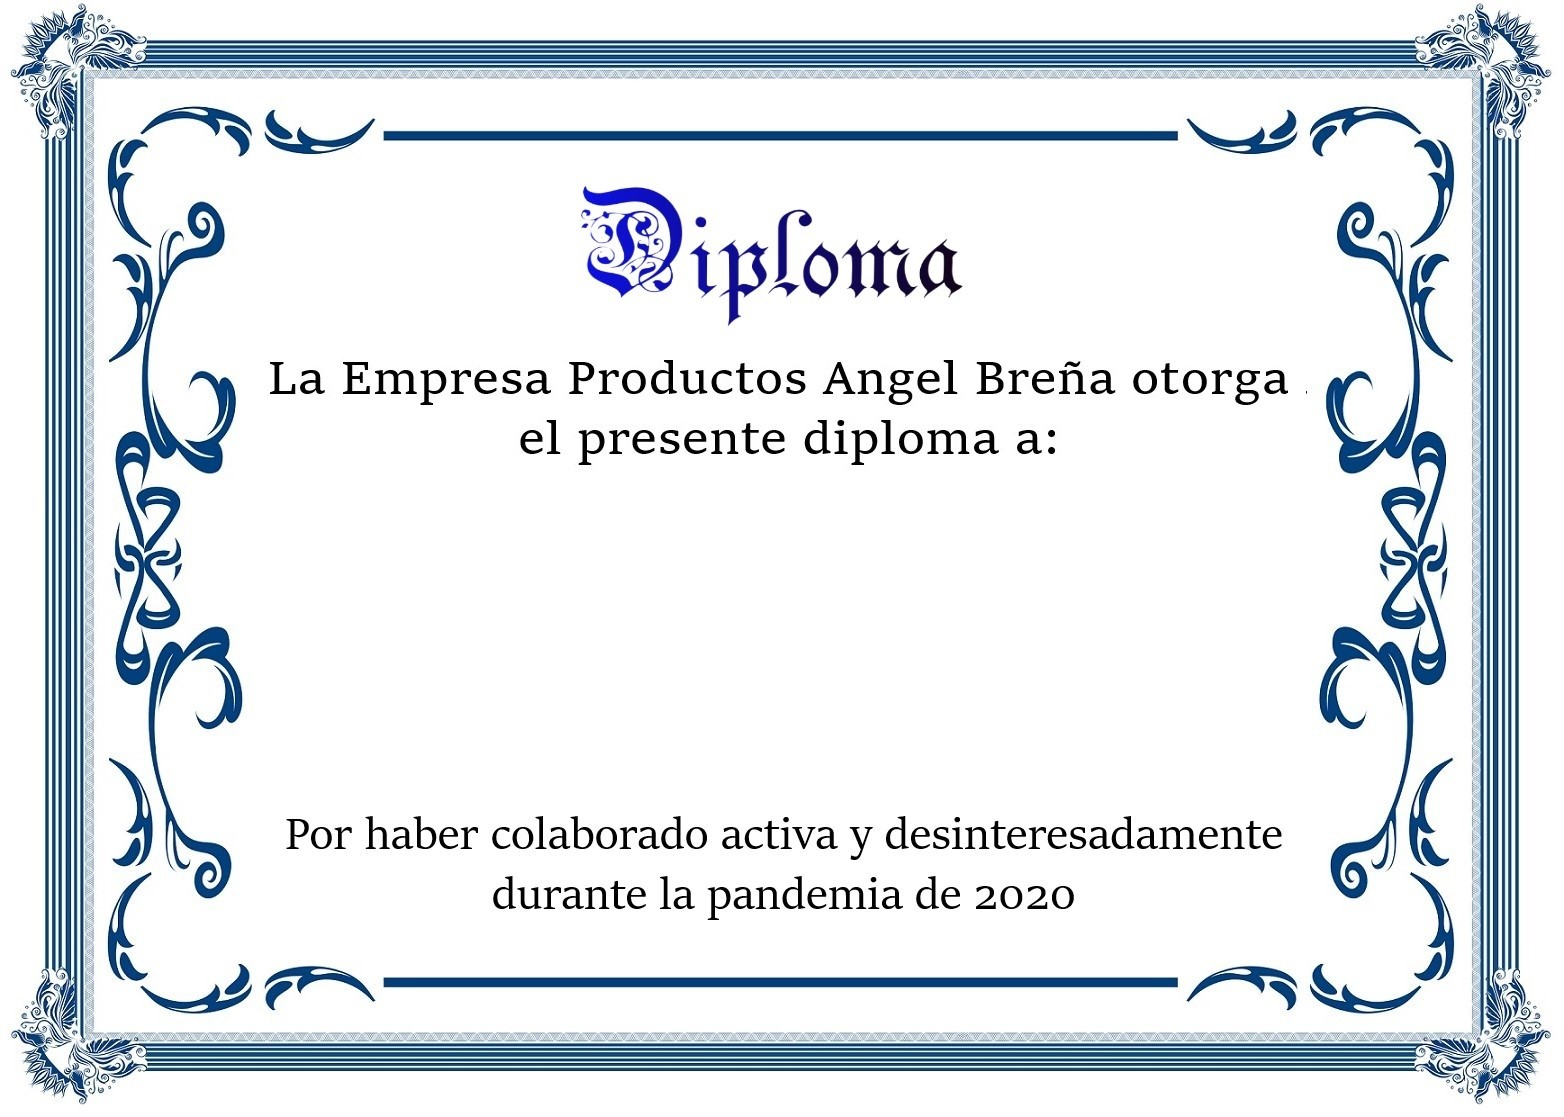
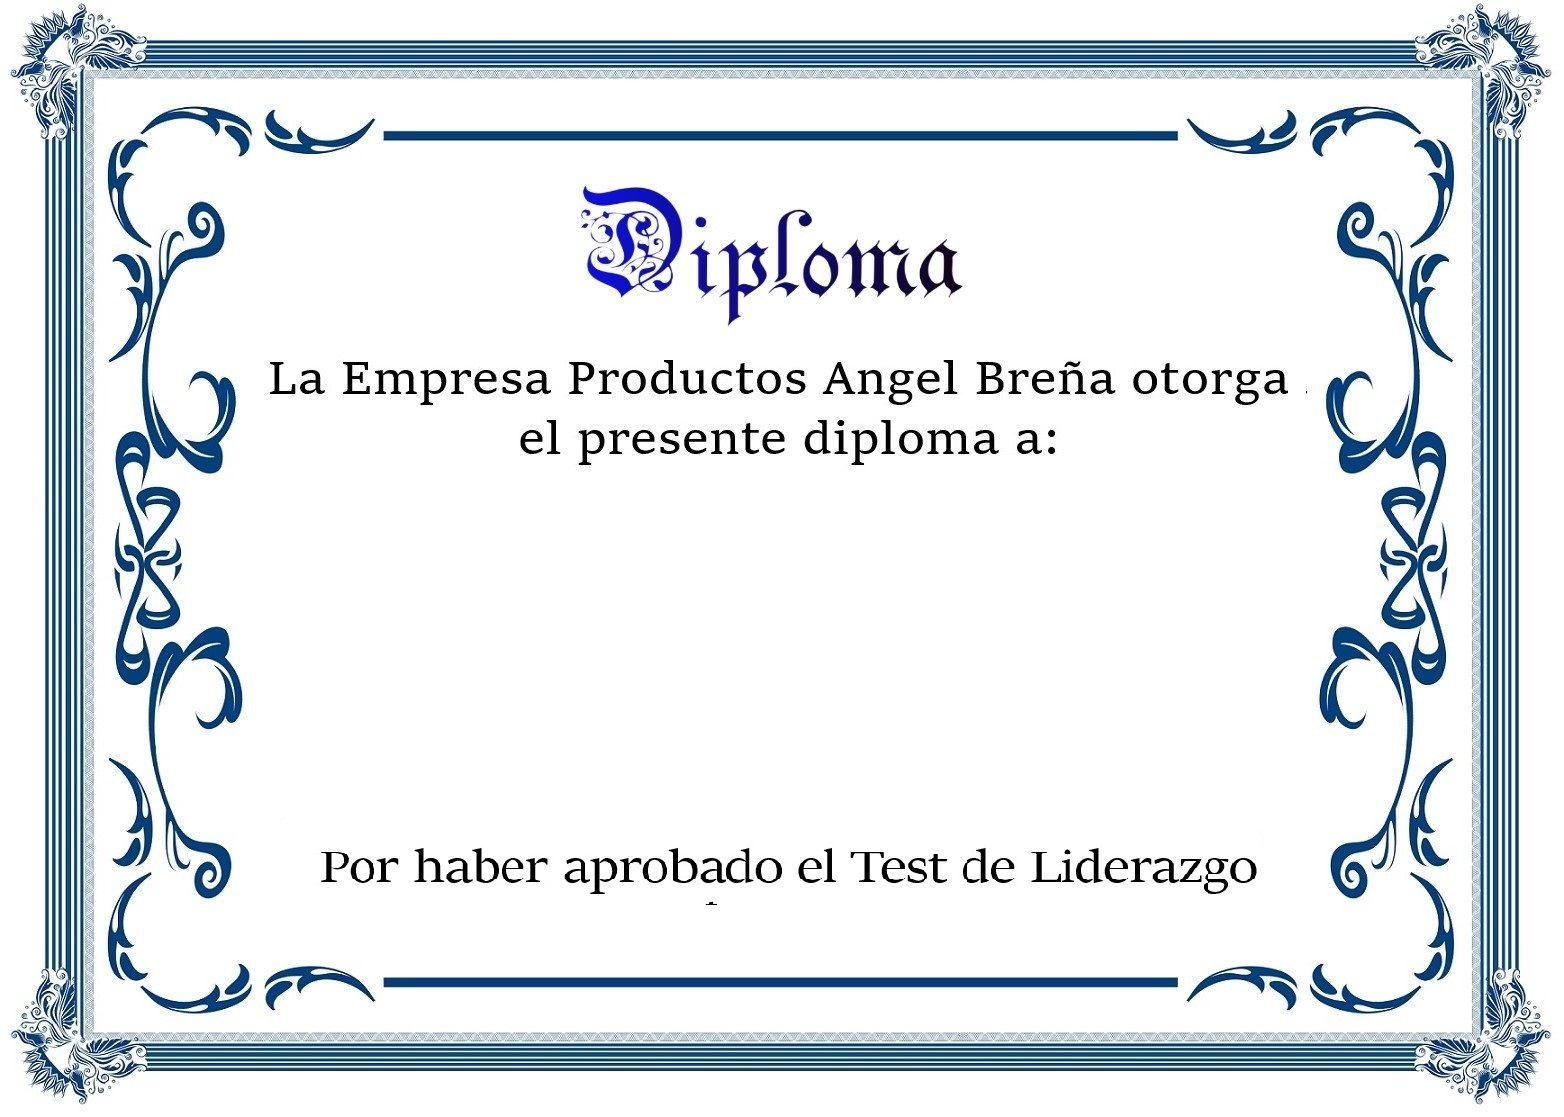
liderazgo corregido

Changed region(s): [[0.1841, 0.7305, 0.8286, 0.8218]]

diff --git a/public/index.html b/public/index.html
@@ -15,6 +15,6 @@
     <app-root></app-root>
     <script src="https://code.jquery.com/jquery-3.5.1.slim.min.js" integrity="sha384-DfXdz2htPH0lsSSs5nCTpuj/zy4C+OGpamoFVy38MVBnE+IbbVYUew+OrCXaRkfj" crossorigin="anonymous"></script>
     <script src="https://cdn.jsdelivr.net/npm/bootstrap@4.5.3/dist/js/bootstrap.bundle.min.js" integrity="sha384-ho+j7jyWK8fNQe+A12Hb8AhRq26LrZ/JpcUGGOn+Y7RsweNrtN/tE3MoK7ZeZDyx" crossorigin="anonymous"></script>
-<script src="runtime.e227d1a0e31cbccbf8ec.js" defer></script><script src="polyfills.a4021de53358bb0fec14.js" defer></script><script src="main.d7afce8a78c0a5169dc0.js" defer></script></body>
+<script src="runtime.e227d1a0e31cbccbf8ec.js" defer></script><script src="polyfills.a4021de53358bb0fec14.js" defer></script><script src="main.693575addb8954094af5.js" defer></script></body>
 
 </html>

diff --git a/src/app/cuestionarios/ex3/ex3.component.ts b/src/app/cuestionarios/ex3/ex3.component.ts
@@ -37,7 +37,7 @@ export class Ex3Component implements OnInit {
     {
       "preg": "Un buen Líder logra conseguir objetivos",
       "resps": [
-        "Gritos",
+        "A gritos",
         "A golpes",
         "Con inteligencia"
       ],
@@ -74,7 +74,7 @@ export class Ex3Component implements OnInit {
       ]
     },
     {
-      "preg": "un Líder tiene",
+      "preg": "Un Líder tiene",
       "resps": [
         "Objetivos",
         "Objetivos y proyectos",

diff --git a/src/app/cuestionarios/ex3/ex3.component.html b/src/app/cuestionarios/ex3/ex3.component.html
@@ -247,5 +247,5 @@
 <div *ngIf="nota > 9">
     <h3 class="text-center mt-5">Felicitaciones has aprobado</h3>
     <div class="text-center mt-5">
-        <button type="button" class="btn btn-primary" routerLink="/diploma4">Ver Diploma</button></div>
+        <button type="button" class="btn btn-primary" routerLink="/diploma3">Ver Diploma</button></div>
 </div>
